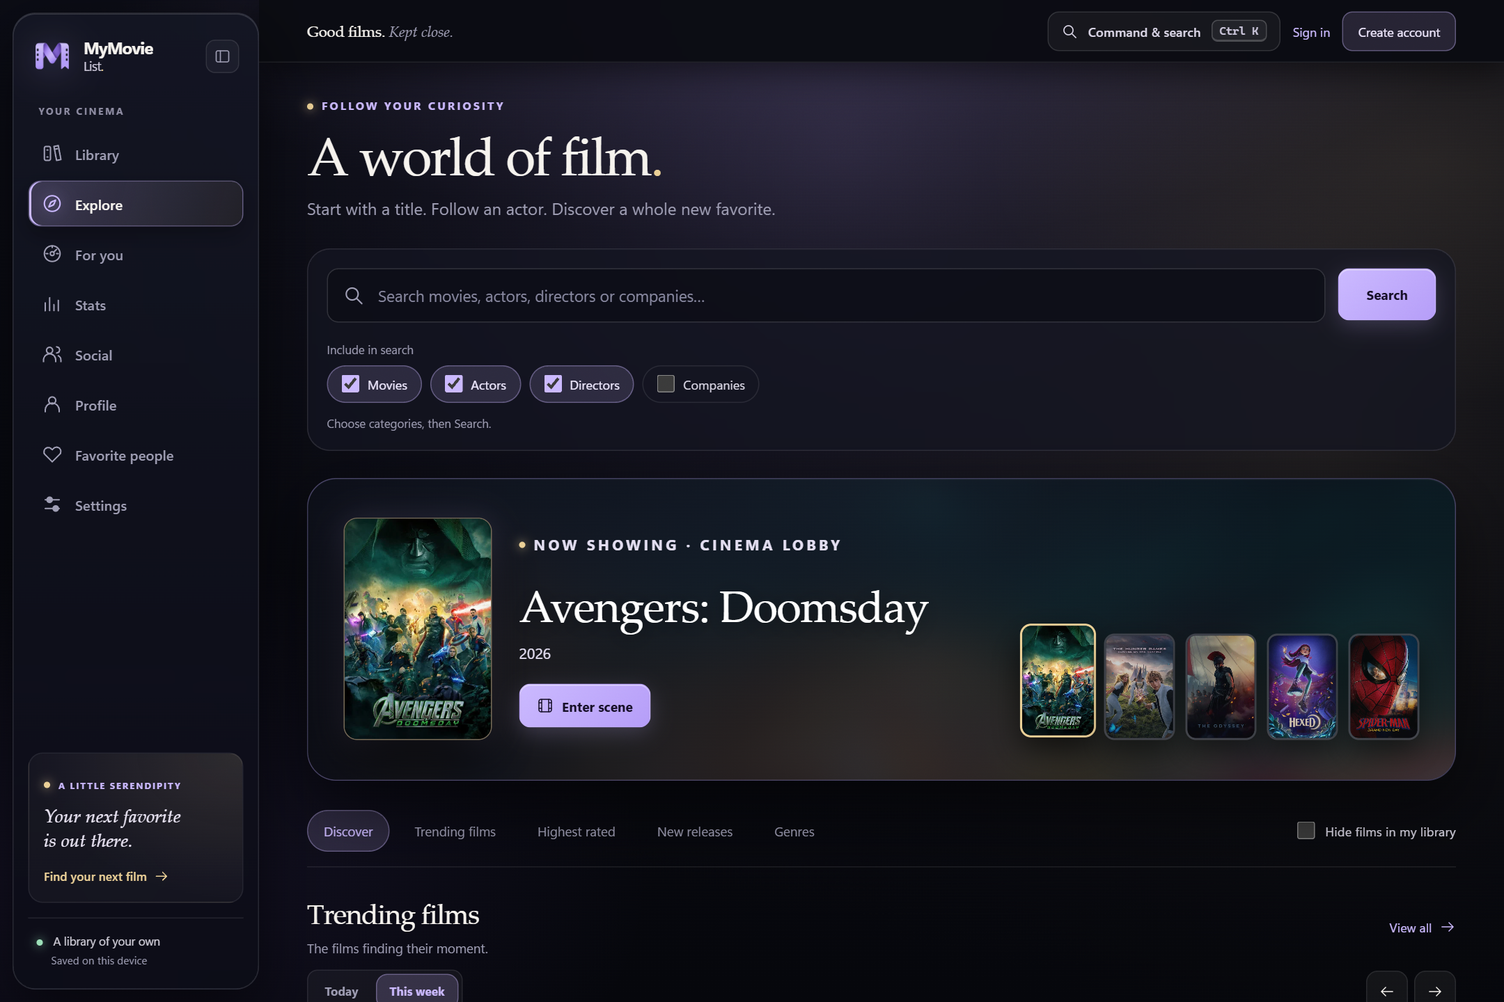
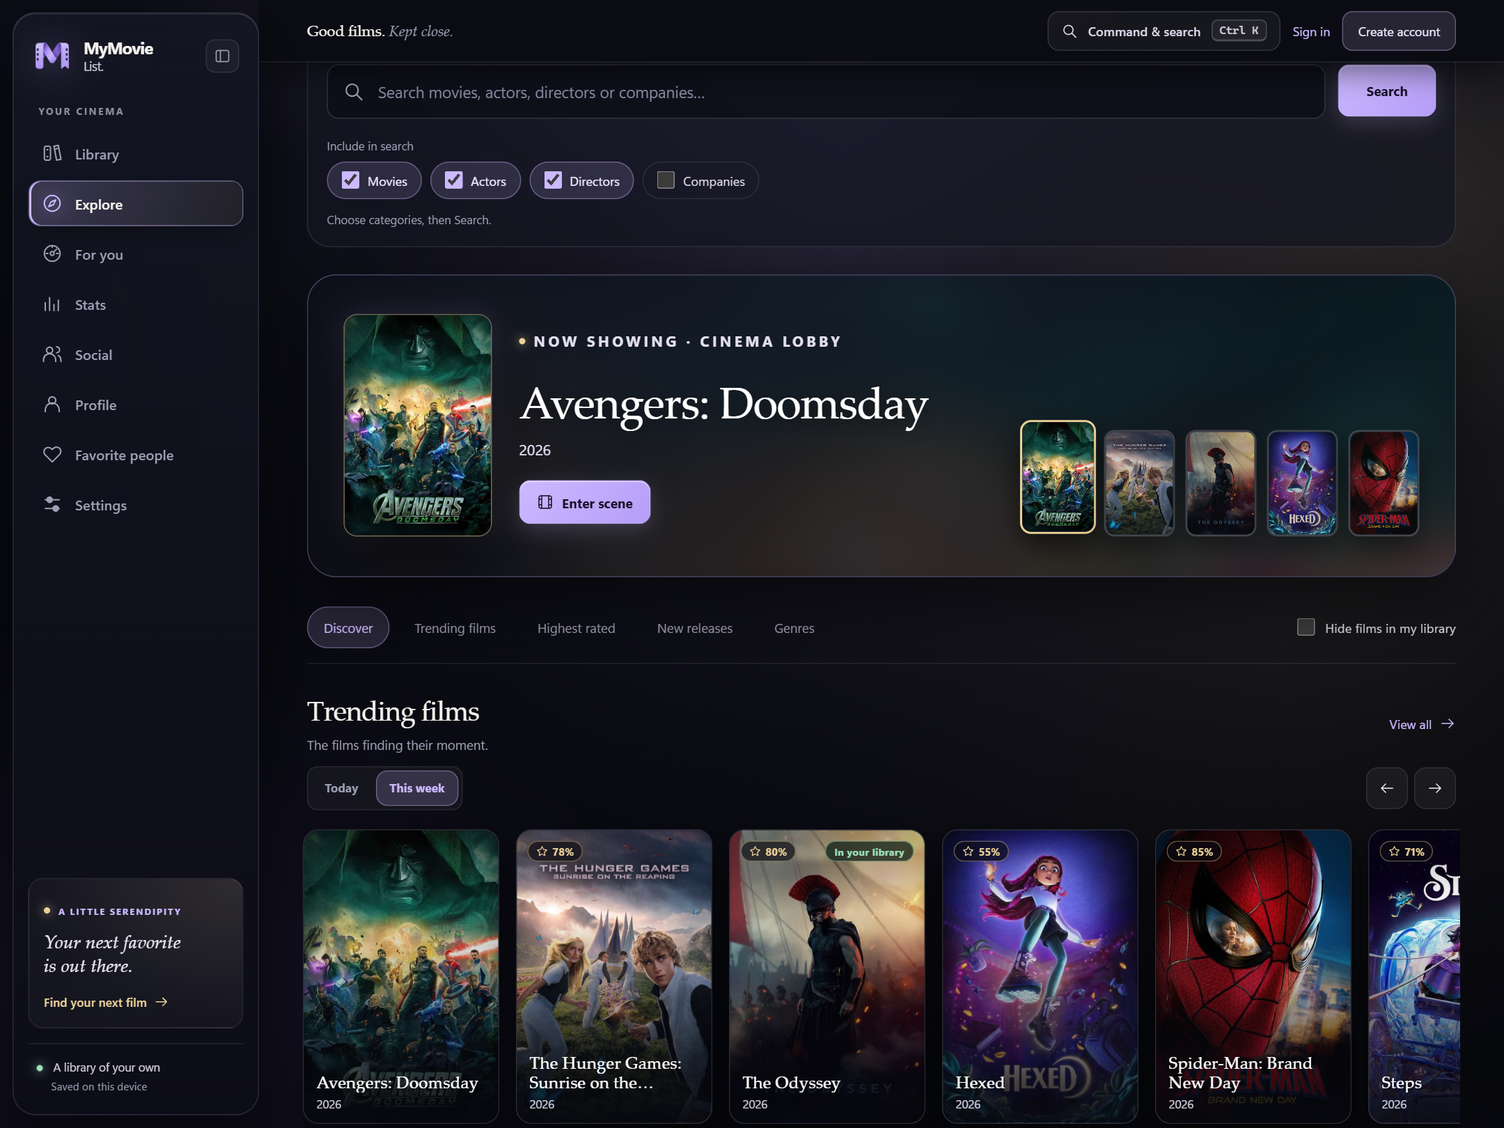
Update README.md

diff --git a/README.md b/README.md
@@ -3,125 +3,119 @@
 </p>
 <h1 align="center">MyMovieList</h1>
 <p align="center"><strong>Your films. Your thoughts. Your space.</strong></p>
-<p align="center">A personal movie library with discovery, recommendations and a private journal. No account or API key required.</p>
+<p align="center">A personal movie library with discovery, personal recommendations, interactive cinema statistics and a private journal. No account or API key required.</p>
 <p align="center"><a href="https://github.com/keremakcn/MyMovieList/releases/latest"><strong>Download</strong></a> · <a href="https://github.com/keremakcn/MyMovieList/releases">All releases</a></p>
 
 **English** | [Türkçe](README.tr.md)
 
-**Version 3.8.0 — Cinema Stats, Letterboxd/IMDb Import & Unified UI:** bring your Letterboxd (`.zip`/`.csv`) or IMDb (`.csv`) history into web or desktop, explore private on-device Cinema Statistics (`/stats`), enjoy cinematic movie backdrops, unified obsidian/lavender/gold design, per-entry IndexedDB v2 storage, PWA support, dynamic Open Graph cards and Supabase migration 008 scale indexes. Windows EXE is built from the current 3.8.0 source; Android and macOS packages build from the same 3.8.0 source.
+**Version 4.0.0 — Obsidian Screening Room:** a full-bleed cinematic redesign across Windows, Android and Web featuring three library views (**Editorial**, **3D Spatial Shelf**, **Poster Wall**), rotating living backdrops from your favorited or `8+` rated films, interactive **Cinema Stats** (`/stats`) with clickable poster drilldowns, monthly wave charts, crystal genre radar, director/actor portraits and cached studio logos, curatorial **For You** screening cards, frameless **Explore** posters, edge-to-edge movie detail pages, and automatic **>40-character note auto-save**.
 
 ## Get started
 
-Windows 3.8.0 packages are built locally and will appear in Assets after publication. Mac and Android packages build from the shared 3.8.0 source.
+Windows and Android `4.0.0` release packages build directly from this source. macOS packages build from the same shared `4.0.0` source.
 
-**Windows — v3.8.0**
+**Windows — v4.0.0**
 
-1. Download `MyMovieList-v3.8.0-windows.zip` from the release’s **Assets**.
-2. Extract it and open `MyMovieList-v3.8.0.exe`. No Python installation is needed.
+1. Download `MyMovieList-v4.0.0-windows.zip` from the release’s **Assets**.
+2. Extract it and open `MyMovieList-v4.0.0.exe`. No Python installation is needed.
 3. Search for a film and add it to your library. Discovery is ready without setup.
 
-**Android — 3.8.0 beta.1**
+**Android — 4.0.0 beta.1**
 
-Download `MyMovieList-3.8.0-android-beta.1.apk` from the release’s **Assets** and open it on your phone. Android 7.0 or newer, a 64-bit ARM device and a current Android System WebView are required. The Android app runs independently, keeps your library on the phone and can sync your account library with Windows when you sign in. Accounts remain optional. This is a beta: physical-device testing is still required. See [Android details](ANDROID.md).
+Download `MyMovieList-4.0.0-android-beta.1.apk` from the release’s **Assets** (or upload the matching `.aab` to Google Play) and open it on your phone. Android 7.0 or newer, a 64-bit ARM device and a current Android System WebView are required. The Android app runs independently, keeps your library on the phone and can sync your account library with Windows and Web when you sign in. Accounts remain optional. See [Android details](ANDROID.md).
 
-**macOS — v3.8.0 beta**
+**macOS — v4.0.0 beta**
 
-Requires macOS 15 or later. Choose the `arm64` DMG for Apple Silicon (M-series) or `x86_64` for Intel, open it and drag MyMovieList to **Applications**. Version 3.8.0 includes Letterboxd/IMDb import, personal cinema statistics, cinematic backdrops, favorite actors/directors, time-aware sync, recommendation tags, portrait cards, fixed username controls and packaged HTTPS certificates. Its DMGs require a fresh native build through the macOS workflow after the updated source is pushed; older DMGs do not include all current changes. These betas are not notarized by Apple. See [Mac build and installation details](MACOS.md).
+Requires macOS 15 or later. Choose the `arm64` DMG for Apple Silicon (M-series) or `x86_64` for Intel, open it and drag MyMovieList to **Applications**. Version `4.0.0` includes the full Obsidian Screening Room UI, interactive Cinema Stats, Letterboxd/IMDb import, automatic note auto-save, favorite actors/directors, time-aware sync and packaged HTTPS certificates. Its DMGs build through the macOS workflow from this release source. These betas are not notarized by Apple. See [Mac build and installation details](MACOS.md).
 
 ## Web
 
-[Use on the web](https://myshelf.cloud) — web beta.
+[Use on the web](https://myshelf.cloud) — web PWA.
 
-The MyShelf web app supports the same account and private library as the native
-apps: browser storage, automatic sync, email-first signup, profile avatars and
-selected showcases. It also links to the latest published GitHub release.
-Source and deployment details are in [WEB.md](WEB.md).
+The MyShelf web app supports the same account and private library as the native apps: per-entry IndexedDB storage, offline PWA support, automatic sync, email-first signup, profile avatars, selected showcases, dynamic Open Graph cards and automatic long-note saving. Source and deployment details are in [WEB.md](WEB.md).
 
-The new source carries per-field edit times across web, Windows, Android and
-macOS. Newer trustworthy competing edits win; independent changes merge and
-unknown legacy times keep recoverable review. This behavior is shared by
-the 3.8.0 source for every platform. Existing packages remain compatible;
-current Windows builds include the 3.8.0 features; Android and Mac packages build from the shared 3.8.0 source.
+Per-field edit timestamps travel across web, Windows, Android and macOS so newer competing edits win, independent changes merge cleanly, and legacy conflicts stay recoverable.
 
 ## Features
 
-- **Social:** find public profiles by name or username, open chosen showcases inside the app, and browse this week’s dated watches from selected showcase films. Private notes and the rest of each library stay private. Public sharing is optional; accounts remain private until their owners choose to share.
-- **English and Turkish interface:** first launch follows your device's UI language (Turkish or English fallback), then remembers your choice locally. Change it in **Settings → Language**. Turkish-original films show their Turkish names, and synopses use available Turkish translations with English fallback. Movie identity and personal notes stay unchanged.
-- **Automatic movie details:** cast, directors, writers, producers and studios are saved with each addition. Older entries fill missing details automatically as you browse online; saved details and bilingual synopses remain available offline.
-- Track **Want to watch** and **Watched**, with ratings, favorites and private notes.
-- Add films directly from search without losing your results.
-- Browse **Trending films** by day or week, **Highest rated**, **New releases** and **Genres** in Explore. Open full lists, hide library films and add directly from a poster card.
-- Explore actors and directors through photo cards, then discover their films. Missing photos use a silhouette; names and links stay available. You can also explore production companies.
-- Keep favorite actors and directors in separate private collections. Use the heart on a person card, then open **Favorite people** from your profile or the sidebar. Favorites work locally without an account and sync automatically when signed in; they never appear in your public showcase.
-- Get personal recommendations from your ratings and favorites, using genres, available themes, directors and lead cast. The three discovery modes balance familiar films with new interests; refresh for new picks with fewer recent repeats.
-- Recommendation cards show genre tags. Well-received, recognizable classics that fit your taste get more weight; recent films can receive a small bonus for notable lead cast. Smaller interests and diversity remain part of the selection. The public movie pool includes popular films, classics and rotating international selections and is cached on your device.
-- Choose films you enjoyed to help personalize recommendations.
-- Filter and sort your library. Undo removal without losing notes, ratings or the original added order.
-- Compact cards with a one-line note preview; open the detail page to read or edit.
-- Keyboard-friendly search, suggestions and navigation. Press **Ctrl+K** (**⌘K** on Mac) to search.
+- **Three cinema-grade library modes (`Editorial → 3D Shelf → Posters`):** browse your collection as full-bleed widescreen cinema scenes (**Editorial**), physical hardcover poster spines that unfold into full-bleed spreads (**3D Shelf**), or a frameless 2:3 gallery wall (**Poster Wall**).
+- **Living Library Backdrop:** every visit illuminates your library and stats pages with a rotating full-screen scene drawn from your own favorited (`♥`) or `8+` rated films.
+- **Interactive Cinema Stats (`/stats`):** explore your year in film with a clickable 53-week watch heatmap (with live day-title preview), smooth monthly wave chart, weekday equalizer meters, a 6-axis luminous crystal genre radar, a 10-tier rating ladder, 35mm decade filmstrips with real mini posters, 2×2 runtime cards, TMDB director/actor portraits, cached studio logos, a frosted-glass **Screening Inspector** poster modal for every chart element, and an on-device **1080×1350 Shareable Cinema Passport PNG** (zero private notes included).
+- **Full-Bleed Movie Details & Automatic Note Auto-Save:** unified edge-to-edge film backdrops with frosted navigation chrome, inline 1–10 quick rating, side-by-side **Private Critic Vault** & **Synopsis**, and silent automatic saving for personal notes longer than 40 characters.
+- **Letterboxd & IMDb Import:** bring `.zip` or `.csv` exports from Letterboxd or IMDb into your local vault in **Settings** while preserving existing ratings and personal notes.
+- **Explore & Curatorial For You Recommendations:** browse trending, top-rated, new releases and genre portals as frameless poster walls, and dial between three personal discovery frequencies (**Close to my taste**, **A little discovery**, **Surprise me**) displayed as ranked festival screening cards.
+- **Filmmaker & Studio Discovery + Favorite People:** explore actors, directors and production companies through portrait cards and career timelines, and keep private collections of favorite actors and directors.
+- **Social:** find public profiles by name or username, open chosen showcases inside the app, and browse this week’s dated watches from selected showcase films. Private notes and the rest of your library stay private.
+- **English and Turkish interface:** first launch follows your device's UI language (Turkish or English fallback), then remembers your choice locally (**Settings → Language**).
+- **Instant Command Palette:** press **Ctrl+K** (**⌘K** on Mac) anywhere to search films, switch library modes or jump between views.
 
 ## Screenshots
 
-Screenshots show the library and account flows using a demo account and public catalog snapshots. They were captured before this release; current profile controls include the fixed username. [View the Turkish interface](README.tr.md#ekran-görüntüleri).
+Screenshots were captured directly from **v4.0.0** using a demo library and live public catalog data. [View the Turkish interface](README.tr.md#ekran-görüntüleri).
 
-### Your films, kept close
+### Your library — Editorial, 3D Shelf & Poster Wall
 
-![MyMovieList library with watched films, ratings, favorites and private note previews](screenshots/en/library.png)
-
-### Your profile, your showcase
-
-Choose the films that represent you. Your personal overview and the rest of your library stay separate from your public showcase.
-
-![MyMovieList profile with a cat avatar, unique username and six chosen showcase films](screenshots/en/profile.png)
-
-### Discover film lovers
-
-Find public showcases inside the app. This week shows only selected films
-with a watch date; private notes stay private. The members shown here are
-fictional demo accounts.
-
-![MyMovieList Social with this week's selected showcase films](screenshots/en/social.png)
-
-### Find your next favorite
-
-![MyMovieList Explore page with trending and highly rated films](screenshots/en/explore.png)
+![MyMovieList v4.0.0 Editorial library with living ambient backdrop, frosted bento counters and full-bleed scene cards](screenshots/en/library.png)
 
 <details>
-<summary>Recommendations, movie details and filmmaker discovery</summary>
+<summary>3D Spatial Shelf and frameless Poster Wall modes</summary>
 
-![Personal recommendations with three discovery modes](screenshots/en/recommendations.png)
+![MyMovieList 3D Spatial Shelf with poster spines and unfolded cinema spread](screenshots/en/library-shelf.png)
 
-![Film details with a private note, synopsis and saved cast and crew](screenshots/en/movie-details.png)
-
-![Christopher Nolan's profile and filmography](screenshots/en/director.png)
+![MyMovieList frameless 2:3 Poster Wall gallery](screenshots/en/library-posters.png)
 
 </details>
 
+### Interactive Cinema Stats
+
+Every day on the heatmap, every wave node, radar vertex, rating tier, decade filmstrip and runtime card opens a poster-grid Screening Inspector — calculated locally with zero private notes exposed.
+
+![MyMovieList Cinema Stats overview with completion ring, KPIs, archive milestones and interactive watch heatmap](screenshots/en/stats.png)
+
 <details>
-<summary>Registration, sign-in and your personal overview</summary>
+<summary>Genre Constellation Radar, 10-tier Rating Ladder, Portraits & Studio Logos</summary>
 
-Register step by step: email → code → username → password. The registration screen explains how your saved local films come into the new account.
+![Luminous crystal Genre Constellation Radar, 10-tier Rating Ladder and 35mm decade filmstrips](screenshots/en/stats-constellation.png)
 
-![Email-first registration with verification steps and the local-library copy explanation](screenshots/en/registration.png)
+![Most watched directors and actors with TMDB portraits, plus top studios with logos and watched film stacks](screenshots/en/stats-podium.png)
+
+</details>
+
+### Full-bleed movie details & private critic vault
+
+![Full-bleed edge-to-edge movie detail page for Interstellar with inline rating, private note vault and synopsis](screenshots/en/movie-details.png)
+
+### Explore & personal recommendations
+
+![Explore page with Cinema Lobby spotlight and frameless 2:3 trending poster wall](screenshots/en/explore.png)
+
+![For You personal recommendations with 3-mode discovery frequency dial and festival screening cards](screenshots/en/recommendations.png)
+
+<details>
+<summary>Filmmaker profiles, Social and optional account flows</summary>
+
+![Christopher Nolan profile and chronological filmography](screenshots/en/director.png)
+
+![MyMovieList Social with public showcases](screenshots/en/social.png)
+
+![Email-first registration with verification steps and local-to-cloud copy diagram](screenshots/en/registration.png)
 
 ![Sign-in screen with email, password and account-free access](screenshots/en/sign-in.png)
 
-![Private personal overview with library counts and favorite films](screenshots/en/profile-personal.png)
-
 </details>
 
 <details>
-<summary>Phone layouts: library, discovery, profile and registration</summary>
+<summary>Phone layouts: library, explore, recommendations and stats</summary>
 
-Responsive views of the shared interface at phone size, captured from the source preview.
+Responsive views of the shared v4.0.0 interface at phone size (`390×844`) with the floating bottom dock.
 
 <p align="center">
   <img src="screenshots/en/mobile-library.png" alt="English library at phone size" width="44%">
-  <img src="screenshots/en/mobile-explore.png" alt="English discovery at phone size" width="44%">
+  <img src="screenshots/en/mobile-explore.png" alt="English explore at phone size" width="44%">
 </p>
 <p align="center">
-  <img src="screenshots/en/mobile-profile.png" alt="English profile and chosen showcase films at phone size" width="44%">
-  <img src="screenshots/en/mobile-registration.png" alt="English registration and local-library copy explanation at phone size" width="44%">
+  <img src="screenshots/en/mobile-recommendations.png" alt="English personal recommendations at phone size" width="44%">
+  <img src="screenshots/en/mobile-stats.png" alt="English cinema stats at phone size" width="44%">
 </p>
 
 </details>
@@ -134,23 +128,21 @@ Keep using MyMovieList without an account, or sign in to take your private libra
 - **Keep your films when registering:** creating a new account automatically copies the films already saved on this device, with their notes, ratings, favorites and added order. The registration screen explains this before you finish. Your original local copy stays on the device.
 - **Separate libraries:** signing in to an existing account opens that account's library. You can copy the original local library from account settings; existing account records keep their notes and ratings.
 - **Simple registration:** email → verification code → unique username → password. Normal sign-in uses email and password; password recovery verifies its code before asking for a new password.
-- **Your identity:** choose a display name and one of 16 bundled cat avatars. Display names may repeat. Your unique @username is visible on your profile, is chosen once and cannot currently be changed. Profile editing changes only the display name and avatar; older accounts without a username can choose one in Account & sync.
+- **Your identity:** choose a display name and one of 16 bundled cat avatars. Display names may repeat. Your unique `@username` is visible on your profile, is chosen once and cannot currently be changed.
 - **Your showcase:** select and order up to six films yourself. Sharing is off by default. When you enable it, your address is `myshelf.cloud/u/<username>`. Only your chosen films are shared; displaying ratings and library counts is also optional.
-- **Private notes:** film notes, email, custom films and the rest of your library never appear on public profile pages. The identity-name filter does not censor your personal movie notes.
-
-Profile access is in the sidebar and top bar. Import/export remains in **Settings** on desktop. Offline mode uses the data already saved on that device; changes from another device need a connection before they can appear.
+- **Private notes:** film notes, email, custom films and the rest of your library never appear on public profile pages or shareable stats cards.
 
 ## Your thoughts stay yours
 
-Not every reaction needs an audience. Write honestly without publishing your notes to a public profile. Your library, notes, ratings and favorites are saved on your device and are not uploaded to our discovery service or TMDB. If you use an optional account, your account library also syncs privately through Supabase. New registration brings your saved local films into the account, as explained on the registration screen. Signing in to an existing account leaves that library separate until you choose to copy it.
+Not every reaction needs an audience. Write honestly without publishing your notes to a public profile. Your library, notes, ratings and favorites are saved on your device and are not uploaded to our discovery service or TMDB. If you use an optional account, your account library also syncs privately through Supabase.
 
-Recommendations are ranked on your device. Private notes are not analyzed.
+Recommendations and cinema statistics are computed on your device. Private notes are never analyzed or exported into stats cards.
 
 Searches and catalog requests pass through `api.myshelf.cloud` to TMDB. Discovery and remote images need internet; saved library information and downloaded posters remain available offline. Local storage is not encrypted.
 
 **Mac updates preserve your library** in `~/Library/Application Support/MyMovieList`. Close the app before replacing it in Applications.
 
-**Updates preserve your Windows library.** Close the app before replacing the EXE. Existing data remains in `%APPDATA%\MovieWatchlist`; the original folder name is retained for compatibility. Android data stays in private app storage; uninstalling the app or clearing its storage deletes that library.
+**Updates preserve your Windows library.** Close the app before replacing the EXE. Existing data remains in `%APPDATA%\MovieWatchlist`; the original folder name is retained for compatibility. Android data stays in private app storage; installing the signed update over the existing app preserves your library.
 
 ## Run from source
 
@@ -162,10 +154,9 @@ python -m venv .venv
 .\.venv\Scripts\python run_desktop.py
 ```
 
-Build Windows with `.\scripts\build_release.ps1`. See [release notes](RELEASE_NOTES.md), [QA results](QA_RESULTS.md), [recommendation design](RECOMMENDATIONS_DESIGN.md), [discovery design](DISCOVERY_DESIGN.md), [Android build instructions](ANDROID.md) and [discovery service setup](cloudflare/watchlist-api/README.md) for development details.
+Build Windows with `.\scripts\build_release.ps1` and Android with `.\scripts\build_android.ps1 -Release`. See [release notes](RELEASE_NOTES.md), [QA results](QA_RESULTS.md), [recommendation design](RECOMMENDATIONS_DESIGN.md), [discovery design](DISCOVERY_DESIGN.md), [Android build instructions](ANDROID.md) and [discovery service setup](cloudflare/watchlist-api/README.md) for development details.
 
-Developers: see [cloud setup](supabase/README.md) and [data portability](CLOUD_SYNC_DESIGN.md). Database migrations 001–004 enable accounts; migration 005 adds Social. See [Social design and validation](SOCIAL_DESIGN.md).
-
+Developers: see [cloud setup](supabase/README.md) and [data portability](CLOUD_SYNC_DESIGN.md). Database migrations `001–008` enable accounts, Social and scale indexes. See [Social design and validation](SOCIAL_DESIGN.md).
 
 ## Credits
 

diff --git a/RELEASE_NOTES.md b/RELEASE_NOTES.md
@@ -19,6 +19,12 @@
 - **Full-Bleed Movie Detail & Edit Pages:** unified edge-to-edge film backdrop
   with frosted glass navigation chrome, compact inline rating + quick actions,
   and side-by-side Private Critic Vault & Synopsis layout.
+- **Interactive Cinema Stats (`/stats`):** clickable 53-week watch heatmap
+  with live day-title preview, glowing monthly wave chart, weekday equalizer
+  meters, luminous crystal 6-axis genre radar, zero-void 10-tier rating ladder,
+  35mm decade filmstrips with mini posters, 2×2 runtime cards, TMDB
+  director/actor portraits, cached studio logos with watched film stacks, and a
+  frosted-glass Screening Inspector poster modal.
 - **Automatic Note Auto-Save (>40 characters):** long private notes auto-save
   safely after typing pauses, on blur, or before quick actions without touching
   ratings, watch status, dates or favorites.
@@ -57,5 +63,11 @@ users need no API key or manual cloud setup.
   (`♥`) veya `8+` puanlı filmlerinden birinin geniş ekran sahnesiyle aydınlanır.
 - **Boydan Boya Detay ve Düzenleme Sayfaları:** tek bütün tam ekran film
   sahnesi, buzlu cam yan menü/üst çubuk ve yan yana Notun & Özet düzeni.
+- **İnteraktif Sinema İstatistikleri (`/stats`):** üzerine gelince film
+  adlarını gösteren tıklanabilir ısı haritası, ışıklı aylık dalga grafiği,
+  haftanın günleri ekolayzır sütunları, kristal altıgen tür radarı, 10
+  basamaklı puan merdiveni, mini afişli 35mm on yıl şeritleri, 2×2 süre
+  kartları, TMDB yönetmen/oyuncu portreleri, logolu stüdyo kartları ve her
+  grafiğe tıklayınca açılan afişli Film İnceleyici penceresi.
 - **40+ Karakter Otomatik Not Kaydı:** uzun kişisel notlar yazarken otomatik
   olarak yalnızca not alanını güncelleyerek güvenle kaydedilir.
